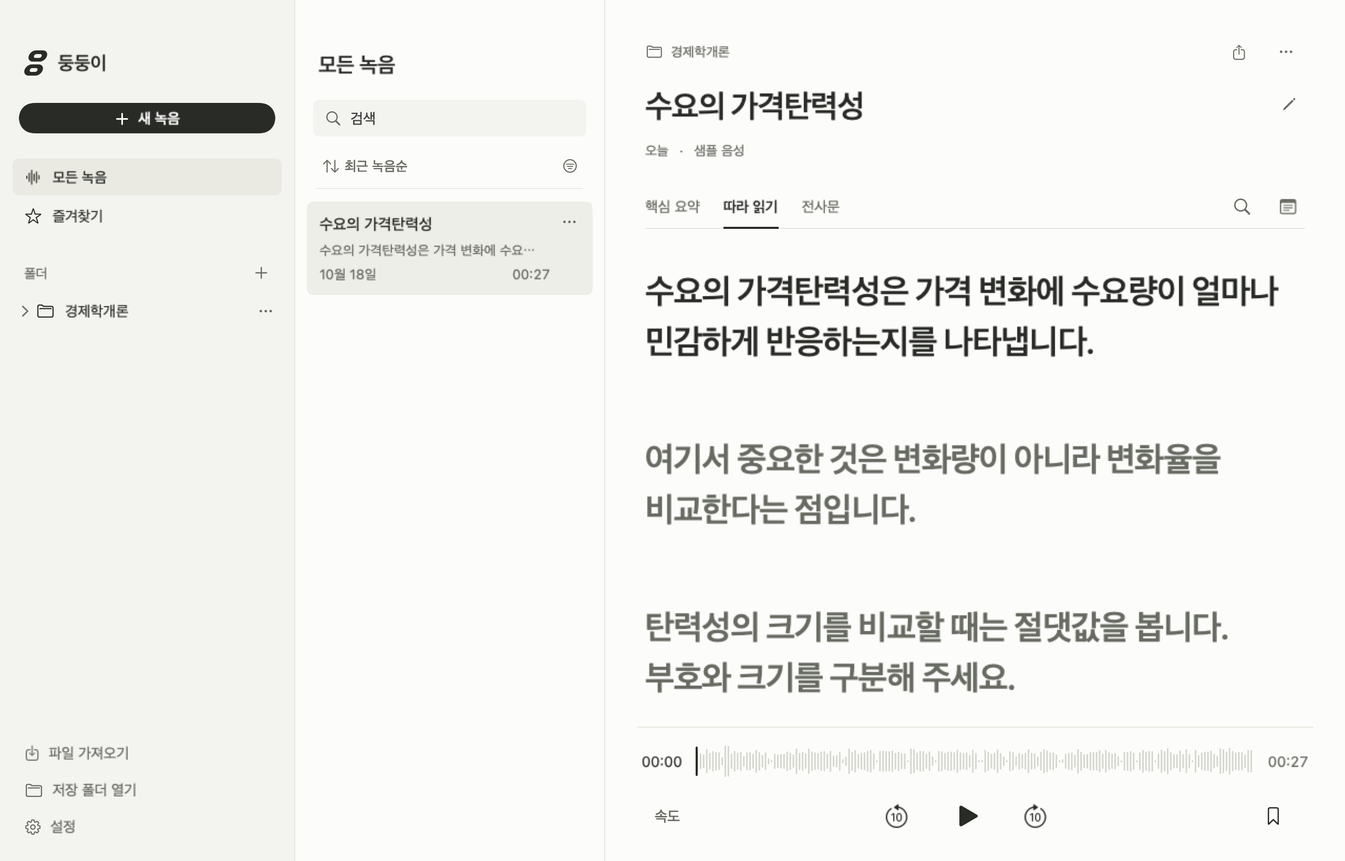
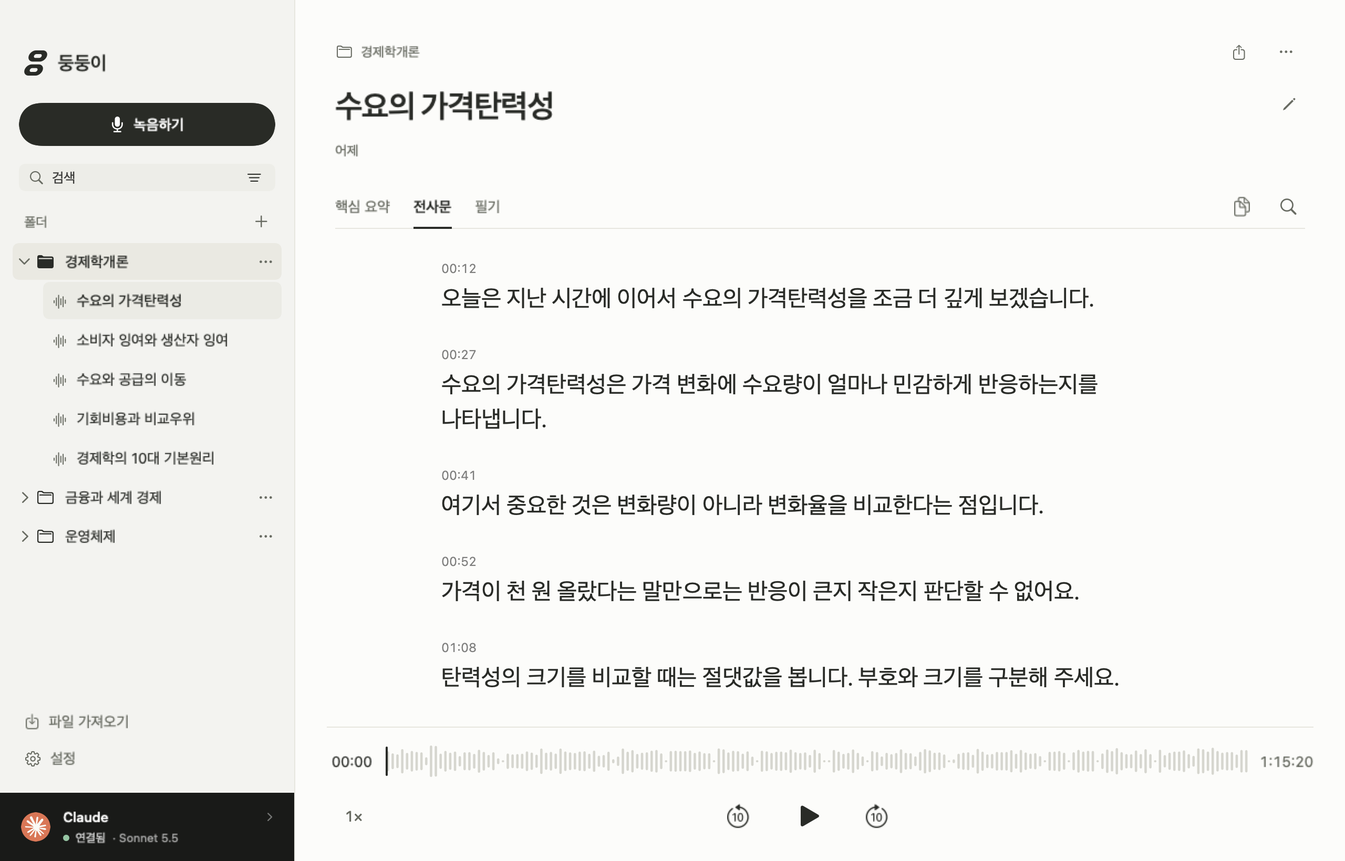
docs: refresh README with product tour and evidence charts
Replace the static hero with a GIF tour built from offscreen app captures,
add screenshots for recording, processing and AI vendor selection, chart the
transcription speed and Korean CER evidence, and describe Claude alongside
Codex.

diff --git a/scripts/render-readme-tour.swift b/scripts/render-readme-tour.swift
@@ -1,0 +1,127 @@
+// Composes README GIF frames from unmodified app captures. Usage: compose SHOTS_DIR FRAMES_DIR
+import AppKit
+let shots = CommandLine.arguments[1], out = CommandLine.arguments[2]
+let W: CGFloat = 1600, H: CGFloat = 1000, fps = 15.0
+struct Scene { let image: String; let eyebrow: String; let title: String; let body: String; let hold: Double; var swap: String? = nil }
+let scenes = [
+    Scene(image: "recording", eyebrow: "녹음", title: "강의를 녹음하면서 필기까지", body: "녹음 화면 옆에서 바로 마크다운 필기를 남깁니다.", hold: 2.6),
+    Scene(image: "polishing", eyebrow: "정리", title: "녹음이 끝나면 AI가 정리합니다", body: "Mac에서 음성 인식 → 전체 맥락으로 교정 → 핵심 요약", hold: 2.6),
+    Scene(image: "summary", eyebrow: "핵심 요약", title: "교수님이 강조한 내용을 카드로", body: "카드에서 원래 설명으로 바로 돌아가 다시 듣습니다.", hold: 2.6),
+    Scene(image: "reading", eyebrow: "복습", title: "글과 음성을 함께 읽습니다", body: "문장을 누르면 그 부분부터 재생됩니다.", hold: 2.6),
+    Scene(image: "vendor-codex", eyebrow: "AI 연결", title: "Codex든 Claude든, 쓰던 구독 그대로", body: "API 키 없이 로그인한 계정으로 교정·요약합니다.", hold: 3.6, swap: "vendor-claude"),
+]
+func load(_ n: String) -> NSImage { NSImage(contentsOfFile: "\(shots)/\(n).png")! }
+func ease(_ t: Double) -> Double { let t = min(max(t, 0), 1); return t < 0.5 ? 4*t*t*t : 1 - pow(-2*t+2, 3)/2 }
+let paper = NSColor(calibratedRed: 0.925, green: 0.922, blue: 0.898, alpha: 1)
+let ink = NSColor(calibratedRed: 0.13, green: 0.13, blue: 0.12, alpha: 1)
+let soft = NSColor(calibratedRed: 0.42, green: 0.41, blue: 0.38, alpha: 1)
+let accent = NSColor(calibratedRed: 0.80, green: 0.36, blue: 0.27, alpha: 1)
+
+func cardRect(_ img: NSImage) -> NSRect {
+    let area = NSRect(x: 90, y: 40, width: W - 180, height: 700)
+    let s = min(area.width / img.size.width, area.height / img.size.height)
+    let w = img.size.width * s, h = img.size.height * s
+    return NSRect(x: area.midX - w/2, y: area.minY, width: w, height: h)
+}
+func drawCard(_ img: NSImage, alpha: CGFloat, dy: CGFloat) {
+    var r = cardRect(img); r.origin.y -= dy
+    NSGraphicsContext.saveGraphicsState()
+    let sh = NSShadow(); sh.shadowColor = NSColor.black.withAlphaComponent(0.16 * alpha); sh.shadowBlurRadius = 40; sh.shadowOffset = NSSize(width: 0, height: -14); sh.set()
+    NSColor.white.withAlphaComponent(alpha).setFill(); NSBezierPath(roundedRect: r, xRadius: 14, yRadius: 14).fill()
+    NSGraphicsContext.restoreGraphicsState()
+    NSGraphicsContext.saveGraphicsState()
+    NSBezierPath(roundedRect: r, xRadius: 14, yRadius: 14).addClip()
+    img.draw(in: r, from: .zero, operation: .sourceOver, fraction: alpha)
+    NSGraphicsContext.restoreGraphicsState()
+    NSColor.black.withAlphaComponent(0.08 * alpha).setStroke()
+    let border = NSBezierPath(roundedRect: r.insetBy(dx: 0.5, dy: 0.5), xRadius: 14, yRadius: 14); border.lineWidth = 1; border.stroke()
+}
+func text(_ s: String, size: CGFloat, weight: NSFont.Weight, color: NSColor, y: CGFloat, alpha: CGFloat, kern: CGFloat = 0) {
+    let p = NSMutableParagraphStyle(); p.alignment = .center
+    let a = NSAttributedString(string: s, attributes: [.font: NSFont.systemFont(ofSize: size, weight: weight), .foregroundColor: color.withAlphaComponent(alpha), .paragraphStyle: p, .kern: kern])
+    a.draw(in: NSRect(x: 0, y: y, width: W, height: size * 1.5))
+}
+func drawCaption(_ sc: Scene, index: Int, alpha: CGFloat, dy: CGFloat) {
+    text(sc.eyebrow, size: 20, weight: .semibold, color: accent, y: 902 + dy, alpha: alpha, kern: 1)
+    text(sc.title, size: 44, weight: .bold, color: ink, y: 830 + dy, alpha: alpha, kern: -0.5)
+    text(sc.body, size: 21, weight: .regular, color: soft, y: 790 + dy, alpha: alpha)
+}
+func drawProgress(_ position: Double) {
+    let n = scenes.count, dot: CGFloat = 8, gap: CGFloat = 10, wide: CGFloat = 30
+    var x = W/2 - (CGFloat(n - 1) * (dot + gap) + wide) / 2
+    for i in 0..<n {
+        let w = dot + (wide - dot) * CGFloat(max(0, 1 - abs(position - Double(i))))
+        (i == Int(position.rounded()) ? ink : ink.withAlphaComponent(0.2)).setFill()
+        NSBezierPath(roundedRect: NSRect(x: x, y: 966, width: w, height: dot), xRadius: 4, yRadius: 4).fill()
+        x += w + gap
+    }
+}
+func drawCursor(at p: NSPoint, pressed: Bool) {
+    let s: CGFloat = pressed ? 0.88 : 1
+    let path = NSBezierPath()
+    let pts: [(CGFloat, CGFloat)] = [(0,0),(0,-34),(9,-26),(15,-40),(21,-37),(15,-24),(27,-24)]
+    for (i, q) in pts.enumerated() { let pt = NSPoint(x: p.x + q.0 * s, y: p.y + q.1 * s); i == 0 ? path.move(to: pt) : path.line(to: pt) }
+    path.close()
+    NSGraphicsContext.saveGraphicsState()
+    let sh = NSShadow(); sh.shadowColor = NSColor.black.withAlphaComponent(0.3); sh.shadowBlurRadius = 6; sh.shadowOffset = NSSize(width: 0, height: -2); sh.set()
+    NSColor.black.setFill(); path.fill()
+    NSGraphicsContext.restoreGraphicsState()
+    NSColor.white.setStroke(); path.lineWidth = 2.2; path.lineJoinStyle = .round; path.stroke()
+}
+
+let transition = 0.55
+var frame = 0
+func render(_ draw: () -> Void) {
+    let rep = NSBitmapImageRep(bitmapDataPlanes: nil, pixelsWide: Int(W), pixelsHigh: Int(H), bitsPerSample: 8, samplesPerPixel: 4, hasAlpha: true, isPlanar: false, colorSpaceName: .deviceRGB, bytesPerRow: 0, bitsPerPixel: 0)!
+    NSGraphicsContext.saveGraphicsState(); NSGraphicsContext.current = NSGraphicsContext(bitmapImageRep: rep)
+    let g = NSGradient(starting: NSColor(calibratedRed: 0.955, green: 0.952, blue: 0.935, alpha: 1), ending: paper)!
+    g.draw(in: NSRect(x: 0, y: 0, width: W, height: H), angle: -90)
+    draw()
+    NSGraphicsContext.restoreGraphicsState()
+    try! rep.representation(using: .png, properties: [:])!.write(to: URL(fileURLWithPath: String(format: "%@/f%04d.png", out, frame)))
+    frame += 1
+}
+for (i, sc) in scenes.enumerated() {
+    let img = load(sc.image), next = i + 1 < scenes.count ? scenes[i + 1] : scenes[0]
+    let holdFrames = Int(sc.hold * fps)
+    for f in 0..<holdFrames {
+        let t = Double(f) / fps
+        render {
+            var shown = img
+            if let swap = sc.swap {
+                let claude = load(swap), r = cardRect(img)
+                let target = NSPoint(x: r.minX + r.width * 0.86, y: r.maxY - r.height * 0.19)
+                let start = NSPoint(x: r.minX + r.width * 0.52, y: r.minY + r.height * 0.45)
+                let move = ease((t - 0.4) / 1.0), clickAt = 1.5, k = t >= clickAt ? ease((t - clickAt) / 0.25) : 0
+                drawCard(img, alpha: 1, dy: 0)
+                if k > 0 { drawCard(claude, alpha: CGFloat(k), dy: 0) }
+                shown = claude
+                drawCaption(sc, index: i, alpha: 1, dy: 0)
+                drawProgress(Double(i))
+                let p = NSPoint(x: start.x + (target.x - start.x) * move, y: start.y + (target.y - start.y) * move)
+                if t > clickAt - 0.05 && t < clickAt + 0.45 {
+                    let r2 = CGFloat(ease((t - clickAt + 0.05) / 0.5))
+                    accent.withAlphaComponent(0.35 * (1 - r2)).setFill()
+                    NSBezierPath(ovalIn: NSRect(x: p.x - 10 - 26*r2, y: p.y - 10 - 26*r2, width: 20 + 52*r2, height: 20 + 52*r2)).fill()
+                }
+                drawCursor(at: p, pressed: abs(t - clickAt) < 0.12)
+                _ = shown
+            } else {
+                drawCard(img, alpha: 1, dy: 0); drawCaption(sc, index: i, alpha: 1, dy: 0); drawProgress(Double(i))
+            }
+        }
+    }
+    let from = sc.swap.map(load) ?? img, to = load(next.image)
+    for f in 0..<Int(transition * fps) {
+        let k = ease(Double(f + 1) / (transition * fps))
+        render {
+            drawCard(from, alpha: 1, dy: 0)
+            drawCard(to, alpha: CGFloat(k), dy: CGFloat(18 * (1 - k)))
+            let out = ease(k * 2), into = ease(k * 2 - 1)
+            if out < 1 { drawCaption(sc, index: i, alpha: CGFloat(1 - out), dy: CGFloat(8 * out)) }
+            if into > 0 { drawCaption(next, index: i + 1, alpha: CGFloat(into), dy: CGFloat(-8 * (1 - into))) }
+            drawProgress(Double(i) + k * (i + 1 < scenes.count ? 1 : -Double(i)))
+        }
+    }
+}
+print("frames=\(frame)")

diff --git a/scripts/render-readme-charts.py b/scripts/render-readme-charts.py
@@ -1,0 +1,57 @@
+# Writes the README evidence charts as SVG. Values come from docs/research/apple-speech-selection.ko.md.
+from pathlib import Path
+from html import escape
+
+out = Path(__file__).resolve().parents[1] / "assets/readme/charts"
+INK, SOFT, MUTED, GRID, SURFACE = "#22221f", "#5f5d56", "#8a887f", "#e6e4dc", "#fbfaf6"
+HIGHLIGHT, CONTEXT = "#c4553f", "#b4b2a8"
+FONT = "-apple-system, BlinkMacSystemFont, 'Apple SD Gothic Neo', 'Noto Sans KR', sans-serif"
+W, LEFT, RIGHT = 880, 244, 112
+
+def bar(x, y, w, h, color):
+    # Square at the baseline, 4px rounded data end.
+    r = min(4, w / 2)
+    return (f'<path d="M{x},{y} H{x + w - r} Q{x + w},{y} {x + w},{y + r} V{y + h - r} '
+            f'Q{x + w},{y + h} {x + w - r},{y + h} H{x} Z" fill="{color}"/>')
+
+def chart(name, title, subtitle, rows, maximum, ticks, unit, note, bar_h=22, gap=22):
+    top = 118
+    height = top + len(rows) * (bar_h + gap) + 78
+    plot = W - LEFT - RIGHT
+    scale = lambda v: plot * v / maximum
+    parts = [f'<svg xmlns="http://www.w3.org/2000/svg" width="{W}" height="{height}" viewBox="0 0 {W} {height}" font-family="{FONT}">',
+             f'<title>{escape(title)}</title>',
+             f'<rect width="{W}" height="{height}" rx="16" fill="{SURFACE}"/>',
+             f'<text x="40" y="54" font-size="21" font-weight="700" fill="{INK}">{escape(title)}</text>',
+             f'<text x="40" y="82" font-size="14" fill="{SOFT}">{escape(subtitle)}</text>']
+    axis_y = top + len(rows) * (bar_h + gap) - gap / 2
+    for t in ticks:
+        x = LEFT + scale(t)
+        parts.append(f'<line x1="{x}" y1="{top - 10}" x2="{x}" y2="{axis_y}" stroke="{GRID}" stroke-width="1"/>')
+        parts.append(f'<text x="{x}" y="{axis_y + 20}" font-size="12" fill="{MUTED}" text-anchor="middle">{t:g}{unit}</text>')
+    for i, (label, value, text, strong) in enumerate(rows):
+        y = top + i * (bar_h + gap)
+        weight = 700 if strong else 400
+        parts.append(f'<text x="{LEFT - 16}" y="{y + bar_h / 2 + 5}" font-size="15" font-weight="{weight}" fill="{INK if strong else SOFT}" text-anchor="end">{escape(label)}</text>')
+        parts.append(bar(LEFT, y, max(scale(value), 2), bar_h, HIGHLIGHT if strong else CONTEXT))
+        parts.append(f'<text x="{LEFT + scale(value) + 10}" y="{y + bar_h / 2 + 5}" font-size="15" font-weight="{weight}" fill="{INK if strong else SOFT}">{escape(text)}</text>')
+    parts.append(f'<text x="40" y="{height - 26}" font-size="12" fill="{MUTED}">{escape(note)}</text>')
+    parts.append('</svg>')
+    (out / f"{name}.svg").write_text("\n".join(parts))
+
+chart("transcription-speed",
+      "같은 15분 강의를 전사하는 데 걸린 시간",
+      "금융 강의 15분 · 같은 18개 구간 · 교정·요약 제외 · 짧을수록 빠름",
+      [("Apple Speech", 9.37, "9.37초 · 약 12.3배 빠름", True), ("기존 Whisper 구현", 115.64, "115.64초", False)],
+      120, [0, 30, 60, 90, 120], "초",
+      "둥둥이 자체 측정 · MacBook Air M1 8GB · macOS 26.3 · whisper.cpp large-v3-turbo + Silero VAD · 조건별 1회", bar_h=24, gap=26)
+
+chart("korean-cer",
+      "한국어 문자 오류율(CER)",
+      "FLEURS 한국어 약 150문장 · 낮을수록 정확",
+      [("Qwen3-ASR 1.7B", 3.54, "3.54%", False), ("Whisper Large V3 Turbo", 4.25, "4.25%", False),
+       ("Apple SpeechTranscriber", 4.31, "4.31%", True), ("Apple Dictation", 7.11, "7.11%", False),
+       ("Whisper Small", 7.30, "7.30%", False), ("SenseVoice Small", 7.85, "7.85%", False)],
+      8, [0, 2, 4, 6, 8], "%",
+      "출처: Whisper Notes Team, 2026-09-01 · M5 MacBook Air · 외부 측정이며 둥둥이가 재실행하지 않음")
+print("charts written to", out)

diff --git a/README.md b/README.md
@@ -2,55 +2,91 @@
 <img src="assets/brand/mark.svg" width="54" height="54" alt="둥둥이 로고">
 </p>
 <h1 align="center">둥둥이</h1>
-<p align="center"><strong>로컬 음성 인식 AI 기반의 대학교 강의 녹음 macOS 앱</strong></p>
+<p align="center"><strong>강의는 녹음만 하세요. 정리는 이미 쓰는 AI가 합니다.</strong></p>
+<p align="center">Mac 음성 인식 × Claude·Codex 구독으로 만드는 대학 강의 노트 · 오픈소스 macOS 앱</p>
 
-클로바노트·다글로의 무료 시간을 다 쓰면 강의 정리용 구독까지 고민하게 됩니다. **이미 Codex나 Claude를 구독하고 있는데도요.**
+**Claude나 Codex를 구독 중인데, 강의 정리하려고 클로바노트·다글로까지 구독하고 계세요?**
 
-둥둥이는 **Mac의 음성 인식에 이미 쓰는 AI를 연결하는 오픈소스 앱**입니다. 강의를 녹음하고, 정리된 글을 읽고, 필요한 설명을 다시 들으세요.
+둥둥이는 강의 녹음을 Mac 안에서 바로 글로 옮기고, 이미 구독 중인 AI로 다듬고 요약합니다. 새 구독도, 전사 시간 제한도, 분당 요금도 없습니다. 수업 중에는 듣고 필기하는 데만 집중하세요. 나머지는 둥둥이가 정리해 둡니다.
 
-![과목별 녹음 목록과 재생 중인 문장을 보여 주는 둥둥이](assets/readme/product-overview.png)
+![녹음과 필기, AI 정리 진행, 핵심 요약, 전사문 읽기, Codex에서 Claude로 전환하는 과정을 차례로 보여 주는 둥둥이 화면](assets/readme/tour.gif)
 
-_실제 앱 화면이며, 강의 내용은 소개용 가상 데이터입니다._
+## 녹음 버튼 하나로, 복습할 노트까지
 
-## Apple Speech로 빠르게
+**녹음하며 필기 → 끝나면 AI가 교정·요약 → 문장을 눌러 다시 듣기.** 수업 하나가 이 흐름으로 복습할 수 있는 노트가 됩니다.
 
-- **15분 강의를 약 9초에 전사.** M1·8GB에서 금융 강의 15분 분량을 처리한 결과, 기존 Whisper 구현보다 약 **12.3배** 빨랐습니다.
-- **Whisper에 가까운 한국어 정확도.** 공개 한국어 낭독 벤치마크의 문자 오류율은 Apple **4.31%**, Whisper Large V3 Turbo **4.25%**였습니다.
-- **모델 관리는 macOS가.** 언어 모델을 준비하면 인터넷 없이 음성을 인식합니다. 전사 시간 제한이나 분당 요금도 없습니다.
+### 녹음하면서 바로 필기
 
-속도는 교정·요약을 제외한 음성 인식 측정입니다. [측정 조건과 선택 근거](docs/research/apple-speech-selection.ko.md)
+녹음을 시작하면 녹음 패널 옆에 필기장이 열립니다. 마크다운으로 적은 필기는 자동 저장되고, 녹음과 함께 과목 폴더에 보관됩니다.
 
-## 녹음에서 복습까지
+![녹음 시간과 입력 파형이 표시된 녹음 패널 옆에서 마크다운 필기를 작성하는 화면](assets/readme/app-recording.png)
 
-**녹음하며 Mac에서 전사 → Codex로 전체 교정·핵심 요약 → 문장을 눌러 다시 듣기**
+### 끝나면 알아서 정리
 
-- **글과 음성을 함께.** 재생 중인 문장이 가사처럼 강조됩니다. 문장을 누르면 그 부분부터 듣고, 필요한 글은 선택해 복사할 수 있습니다.
-- **교수님이 강조한 내용을 카드로.** 핵심 요약에서 원래 설명으로 바로 돌아갈 수 있습니다.
-- **과목별로 보관.** 녹음을 폴더로 나누고 검색하세요. 중단된 정리는 이어서 처리할 수 있습니다.
+녹음을 마치면 음성 인식, 강의 전체 맥락을 살핀 교정, 핵심 요약이 차례로 이어집니다. 지금 어느 단계인지 한눈에 보이고, 중간에 멈춘 정리는 언제든 이어서 처리할 수 있습니다.
 
-![강조한 설명을 정리한 핵심 요약 카드와 해당 구간 듣기 버튼](assets/readme/app-summary.png)
+![음성 인식 완료, 전사문 교정 진행 중, 핵심 요약 대기 단계를 보여 주는 정리 진행 카드](assets/readme/app-processing.png)
 
-_소개용 가상 데이터입니다._
+### 교수님이 강조한 내용만 카드로
 
-현재 교정·요약은 **Codex**에 텍스트를 전달해 처리합니다. 인터넷과 ChatGPT 로그인이 필요하며 계정의 이용 한도가 적용됩니다. 처음 실행하면 AI 연결을 확인합니다. 연결이 안 되어도 녹음은 먼저 시작하고, 나중에 정리할 수 있습니다. 전사문은 교정이 끝난 뒤 표시됩니다.
+"이건 시험에 나옵니다" 같은 강조와 핵심 개념을 카드로 모아 줍니다. 카드의 **설명 듣기**를 누르면 교수님이 그 내용을 설명한 순간으로 바로 돌아갑니다.
+
+![변화량이 아닌 변화율, 부호와 크기 구분하기 카드와 각 카드의 설명 듣기 버튼](assets/readme/app-summary.png)
+
+### 읽다가 막히면 그 문장부터 다시 듣기
+
+재생 중인 문장이 가사처럼 따라 강조됩니다. 헷갈리는 문장을 누르면 그 부분부터 다시 듣고, 필요한 글은 골라 복사할 수 있습니다. 한 학기 녹음도 과목 폴더와 검색으로 금방 찾습니다.
+
+![과목 폴더별 녹음 목록과 시간이 붙은 전사문 문장, 하단 재생기](assets/readme/app-reading.png)
+
+## 빠르고 정확한 Mac 내장 음성 인식
+
+전사는 macOS에 내장된 Apple Speech가 Mac 안에서 처리합니다.
+
+### 15분 강의를 약 9초 만에
+
+M1·8GB MacBook Air에서 같은 금융 강의 15분을 같은 18개 구간으로 나눠 비교했습니다. Apple Speech는 **9.37초**, 이전에 쓰던 Whisper 구현은 **115.64초**로 약 **12.3배** 빨랐습니다.
+
+![같은 15분 금융 강의 전사 시간 막대 그래프. Apple Speech 9.37초, 기존 Whisper 구현 115.64초](assets/readme/charts/transcription-speed.png)
+
+### 한국어 정확도는 Whisper Large V3 Turbo와 비슷하게
+
+공개 한국어 낭독 벤치마크(FLEURS)에서 Apple SpeechTranscriber의 문자 오류율은 **4.31%** 로, Whisper Large V3 Turbo(**4.25%**)와 0.06%p 차이였습니다. Apple의 이전 받아쓰기 모델(7.11%)이나 Whisper Small(7.30%)보다 오류가 적습니다.
+
+![한국어 문자 오류율 막대 그래프. Qwen3-ASR 1.7B 3.54%, Whisper Large V3 Turbo 4.25%, Apple SpeechTranscriber 4.31%, Apple Dictation 7.11%, Whisper Small 7.30%, SenseVoice Small 7.85%](assets/readme/charts/korean-cer.png)
+### 모델은 macOS가 관리
+
+언어 모델을 한 번 준비해 두면 인터넷 없이도 음성을 인식합니다. 모델 저장과 업데이트는 시스템이 맡으니 따로 내려받고 관리할 필요가 없습니다.
+
+[측정 조건과 선택 근거 자세히 보기](docs/research/apple-speech-selection.ko.md)
+
+## 쓰던 AI 구독 그대로, Codex든 Claude든
+
+교정·요약은 **Codex**(ChatGPT 계정)나 **Claude**(Claude 구독) 중 원하는 쪽으로 처리합니다. API 키 없이 각 CLI에 로그인한 계정을 그대로 쓰고, 계정의 이용 한도 안에서 동작합니다.
+
+설정의 **AI 연결**에서 카드를 누르면 바로 전환됩니다. 한 번 확인한 AI로 돌아올 때는 다시 기다리지 않아도 되고, 이미 진행 중인 정리는 시작할 때의 AI로 끝까지 마칩니다.
+
+![Codex와 Claude 카드 중 Claude가 선택되어 Sonnet 5.5로 연결된 AI 연결 설정](assets/readme/app-ai-vendor.png)
+
+AI에는 음성 파일이 아니라 텍스트만 전달됩니다. AI가 연결되지 않아도 녹음은 바로 시작할 수 있고, 정리는 나중에 해도 됩니다. 전사문은 교정이 끝난 뒤에 보여 줍니다.
 
 ## 설치
 
-**macOS 26 이상의 Apple Silicon Mac**에서 사용할 수 있습니다. 현재는 소스 빌드 방식입니다. Mac에서 실행 중인 Codex에 아래 내용을 붙여넣으세요.
+**macOS 26 이상의 Apple Silicon Mac**에서 사용할 수 있습니다. 지금은 소스에서 빌드해 설치합니다. Mac에서 실행 중인 Codex나 Claude Code에 아래 내용을 그대로 붙여넣으세요.
 
 ```text
 doongdoong-ai/doongdoong 저장소의 둥둥이를 이 Mac에 설치해 줘.
 README, docs/technical-guide.ko.md와 설치 스크립트를 읽고 필요한 도구만 준비해 줘.
 ./scripts/setup-engine.sh와 ./scripts/build-app.sh로 빌드해 ~/Applications에 설치해 줘.
 기존 녹음·설정은 보존하고, 실행 중인 앱을 교체하기 전에는 알려 주고 백업해 줘.
-언어 모델 준비와 Codex의 ChatGPT 로그인을 안내해 줘. API 키 결제는 쓰지 마.
+언어 모델 준비와 Codex(ChatGPT) 또는 Claude 구독 로그인을 안내해 줘. API 키 결제는 쓰지 마.
 테스트·녹음·AI 처리는 실행하지 말고, 설치 후 앱을 백그라운드로 열어 줘.
 ```
 
-설치 후 **도움말 → 샘플 녹음으로 둘러보기**에서 바로 살펴볼 수 있습니다.
+설치가 끝나면 **도움말 → 샘플 녹음으로 둘러보기**로 바로 체험해 보세요.
 
 ---
 
-SwiftUI·AppKit으로 만든 네이티브 앱입니다. [MIT 라이선스](LICENSE)로 배포합니다.
+SwiftUI·AppKit으로 만든 네이티브 앱이며, [MIT 라이선스](LICENSE)로 배포합니다.
 
 [빌드·구조·데이터 보관](docs/technical-guide.ko.md) · [평가 기록](docs/validation-apple-transcription.ko.md) · [외부 구성요소](docs/third-party-notices.md)

diff --git a/assets/readme/PROVENANCE.md b/assets/readme/PROVENANCE.md
@@ -1,15 +1,26 @@
 # README 제품 이미지 제작 기록
 
-제작일: 2026-10-18. 현재 빌드의 SwiftUI 화면을 앱의 `--snapshot` 기능으로 캡처했다. 개인 라이브러리 대신 `.local/readme-captures` 아래 독립된 샘플 라이브러리를 사용했다. 화면을 활성화하거나 마이크를 켜지 않았고 AI 요청·전사·앱 테스트를 실행하지 않았다.
+제작일: 2026-10-28. 현재 빌드의 SwiftUI 화면을 앱의 `--snapshot` 기능으로 캡처했다. 개인 라이브러리 대신 매번 새로 복사한 가상 샘플 라이브러리를 `--library`로 지정했다. 화면을 활성화하거나 마이크를 켜지 않았고 AI 요청·전사를 실행하지 않았다. AI 연결 상태는 앱의 미리보기 설정(`--sidebar-ai-preview`, `--providers-preview`)이 만든 가짜 확인 결과다.
 
-| 파일 | 내용 |
-|---|---|
-| `app-reading.png` | 실제 따라 읽기 UI, 2560 × 1640 |
-| `app-summary.png` | 실제 핵심 요약 UI, 2560 × 1640 |
-| `product-overview.png` | 따라 읽기 캡처에 여백·배경·그림자만 적용한 소개 이미지, 2800 × 1880 |
+| 파일 | 캡처 옵션 | 내용 |
+|---|---|---|
+| `app-recording.png` | `--workspace-preview` | 녹음 중 화면과 필기, 2560 × 1640 |
+| `app-processing.png` | `--polishing-preview` | 정리 진행 카드, 2560 × 1640 |
+| `app-summary.png` | (기본) | 핵심 요약 카드, 2560 × 1640 |
+| `app-reading.png` | `--transcript-preview` | 전사문과 과목 폴더, 2560 × 1640 |
+| `app-ai-vendor.png` | `--providers-preview --providers-claude-preview` | AI 연결 설정, 1640 × 1400 |
+| `tour.gif` | 위 캡처 + Codex 선택 상태 설정 화면 | 소개 영상, 1200 × 750, 약 17초 |
 
-경제학개론 제목·전사문·강조 카드는 화면 소개를 위해 직접 작성한 가상 데이터다. 실제 수업이나 AI 분석 결과가 아니다. 샘플의 27초 파형은 앱에 포함된 데모 음성을 사용했으며, 화면의 가상 강의와 일치하는 녹음으로 주장하지 않는다. 캡처에는 UI가 표시한 내용을 그대로 담았고 이미지 생성으로 화면을 재구성하지 않았다.
+모든 캡처에 `--sidebar-ai-preview --providers-claude-preview`를 함께 지정했다.
 
-소개 이미지의 여백은 `scripts/render-readme-hero.swift`에서 수정할 수 있다. 저장소 루트에서 `swift scripts/render-readme-hero.swift`로 다시 만든다. 실제 화면 캡처 원본은 별도 PNG로 보존한다.
+과목·녹음 제목, 전사문, 강조 카드, 필기는 화면 소개를 위해 직접 작성한 가상 데이터다. 실제 수업이나 AI 분석 결과가 아니다. 파형과 재생 길이는 앱에 포함된 27초 데모 음성을 반복해 만든 75분 음성에서 왔으며, 화면의 가상 강의와 일치하는 녹음으로 주장하지 않는다. 캡처에는 UI가 표시한 내용을 그대로 담았고 이미지 생성으로 화면을 재구성하지 않았다.
 
-기존 추상 일러스트는 README에서 제외했다. 기존 앱 로고의 형태는 변경하지 않았다.
+`tour.gif`는 `scripts/render-readme-tour.swift`가 캡처에 배경·문구·전환·커서만 덧그린 프레임을 ffmpeg로 인코딩한 것이다. AI 전환 장면은 Codex 선택 화면과 Claude 선택 화면 두 캡처를 교차 전환해 클릭을 표현했다.
+
+```sh
+swiftc -O scripts/render-readme-tour.swift -o /tmp/render-tour
+/tmp/render-tour SHOTS_DIR FRAMES_DIR
+ffmpeg -framerate 15 -i FRAMES_DIR/f%04d.png -vf "scale=1200:-1:flags=lanczos,split[a][b];[a]palettegen=max_colors=192:stats_mode=diff[p];[b][p]paletteuse=dither=sierra2_4a:diff_mode=rectangle" -loop 0 assets/readme/tour.gif
+```
+
+기존 앱 로고의 형태는 변경하지 않았다.
